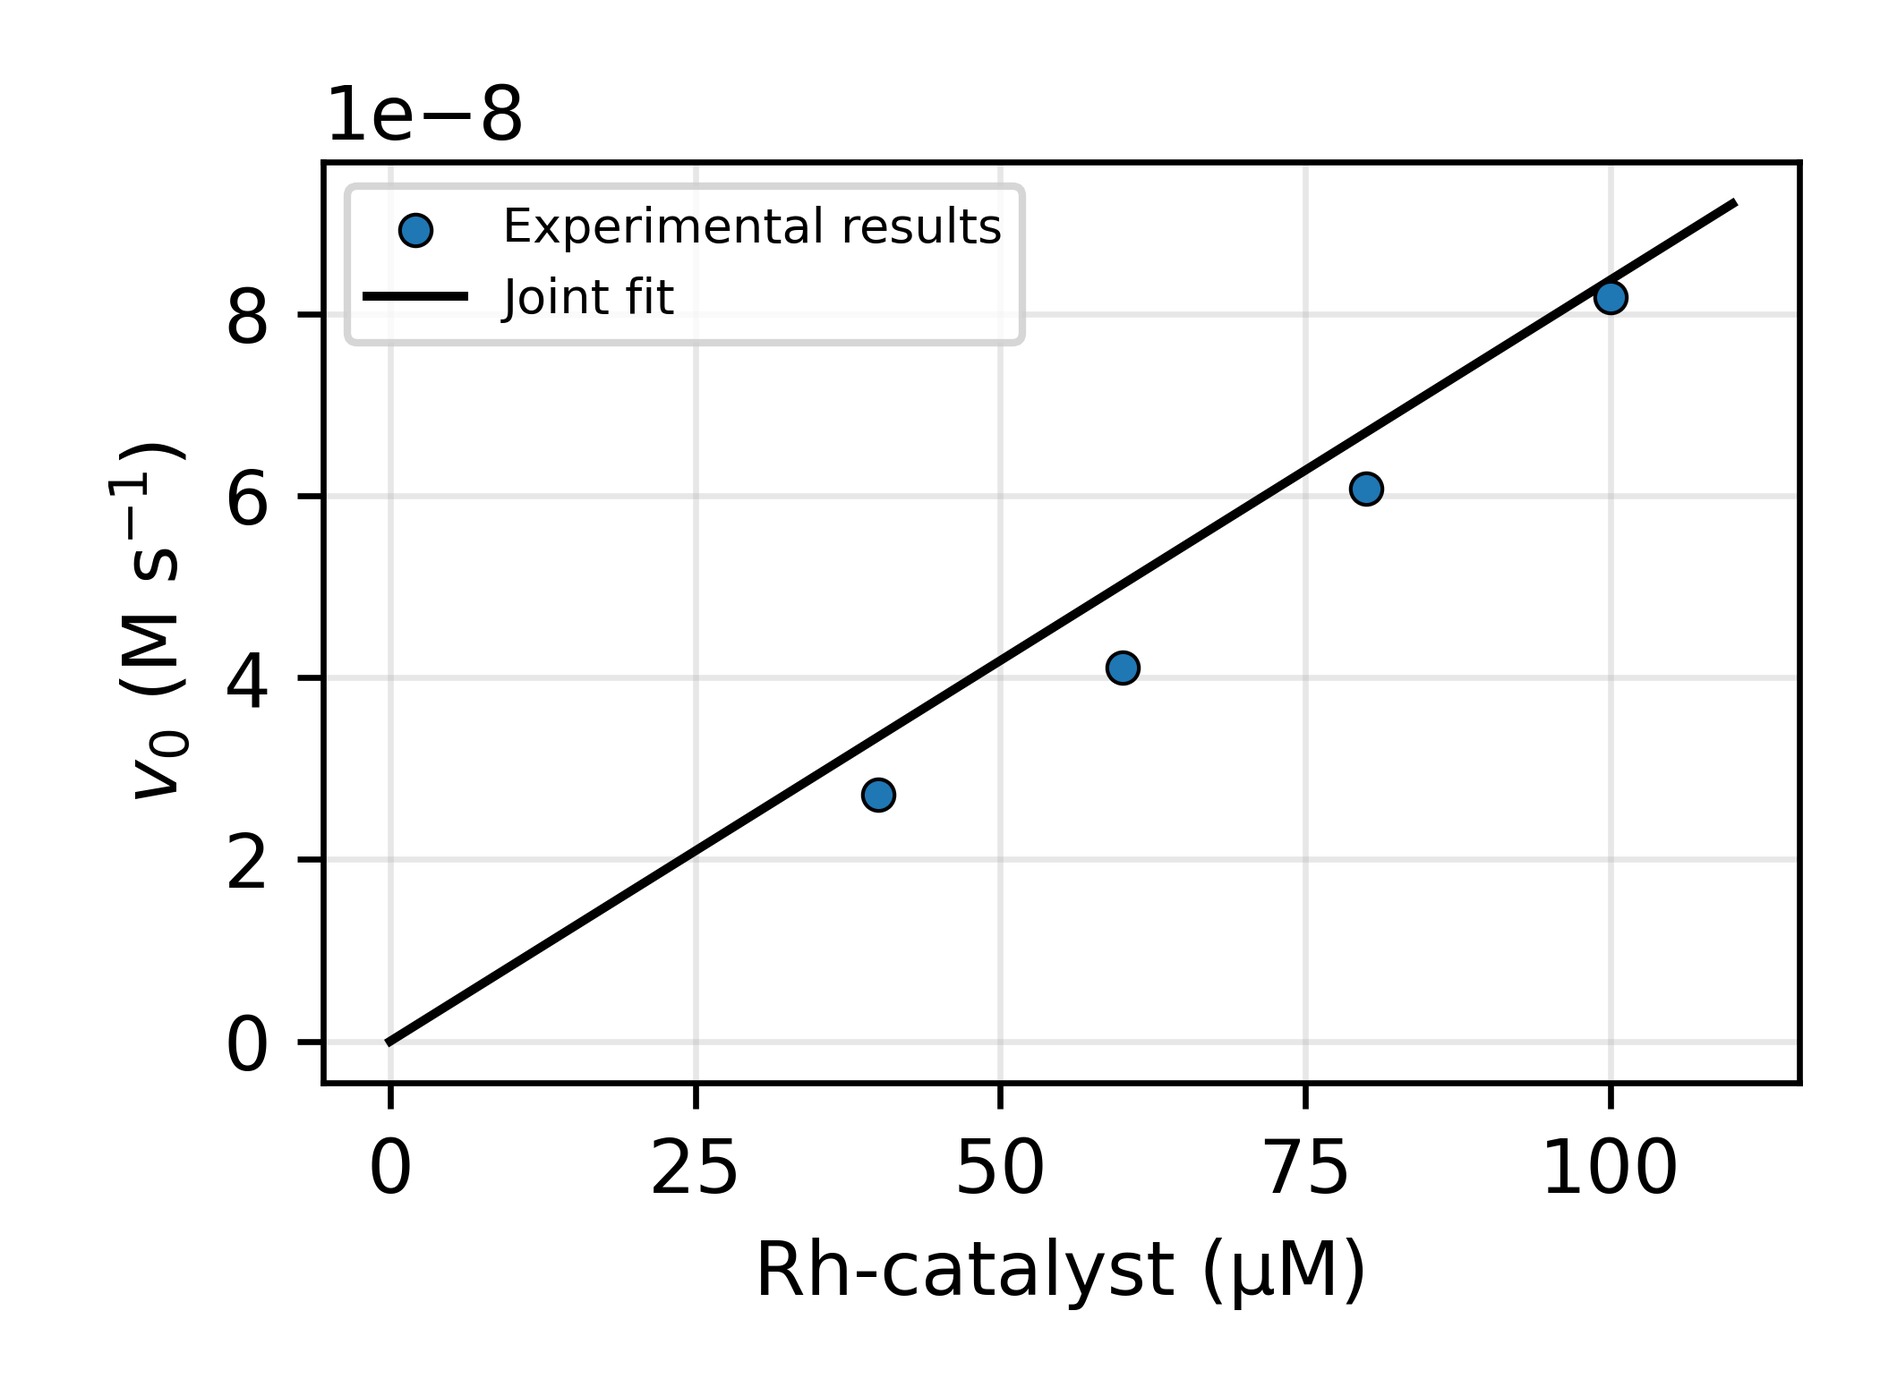
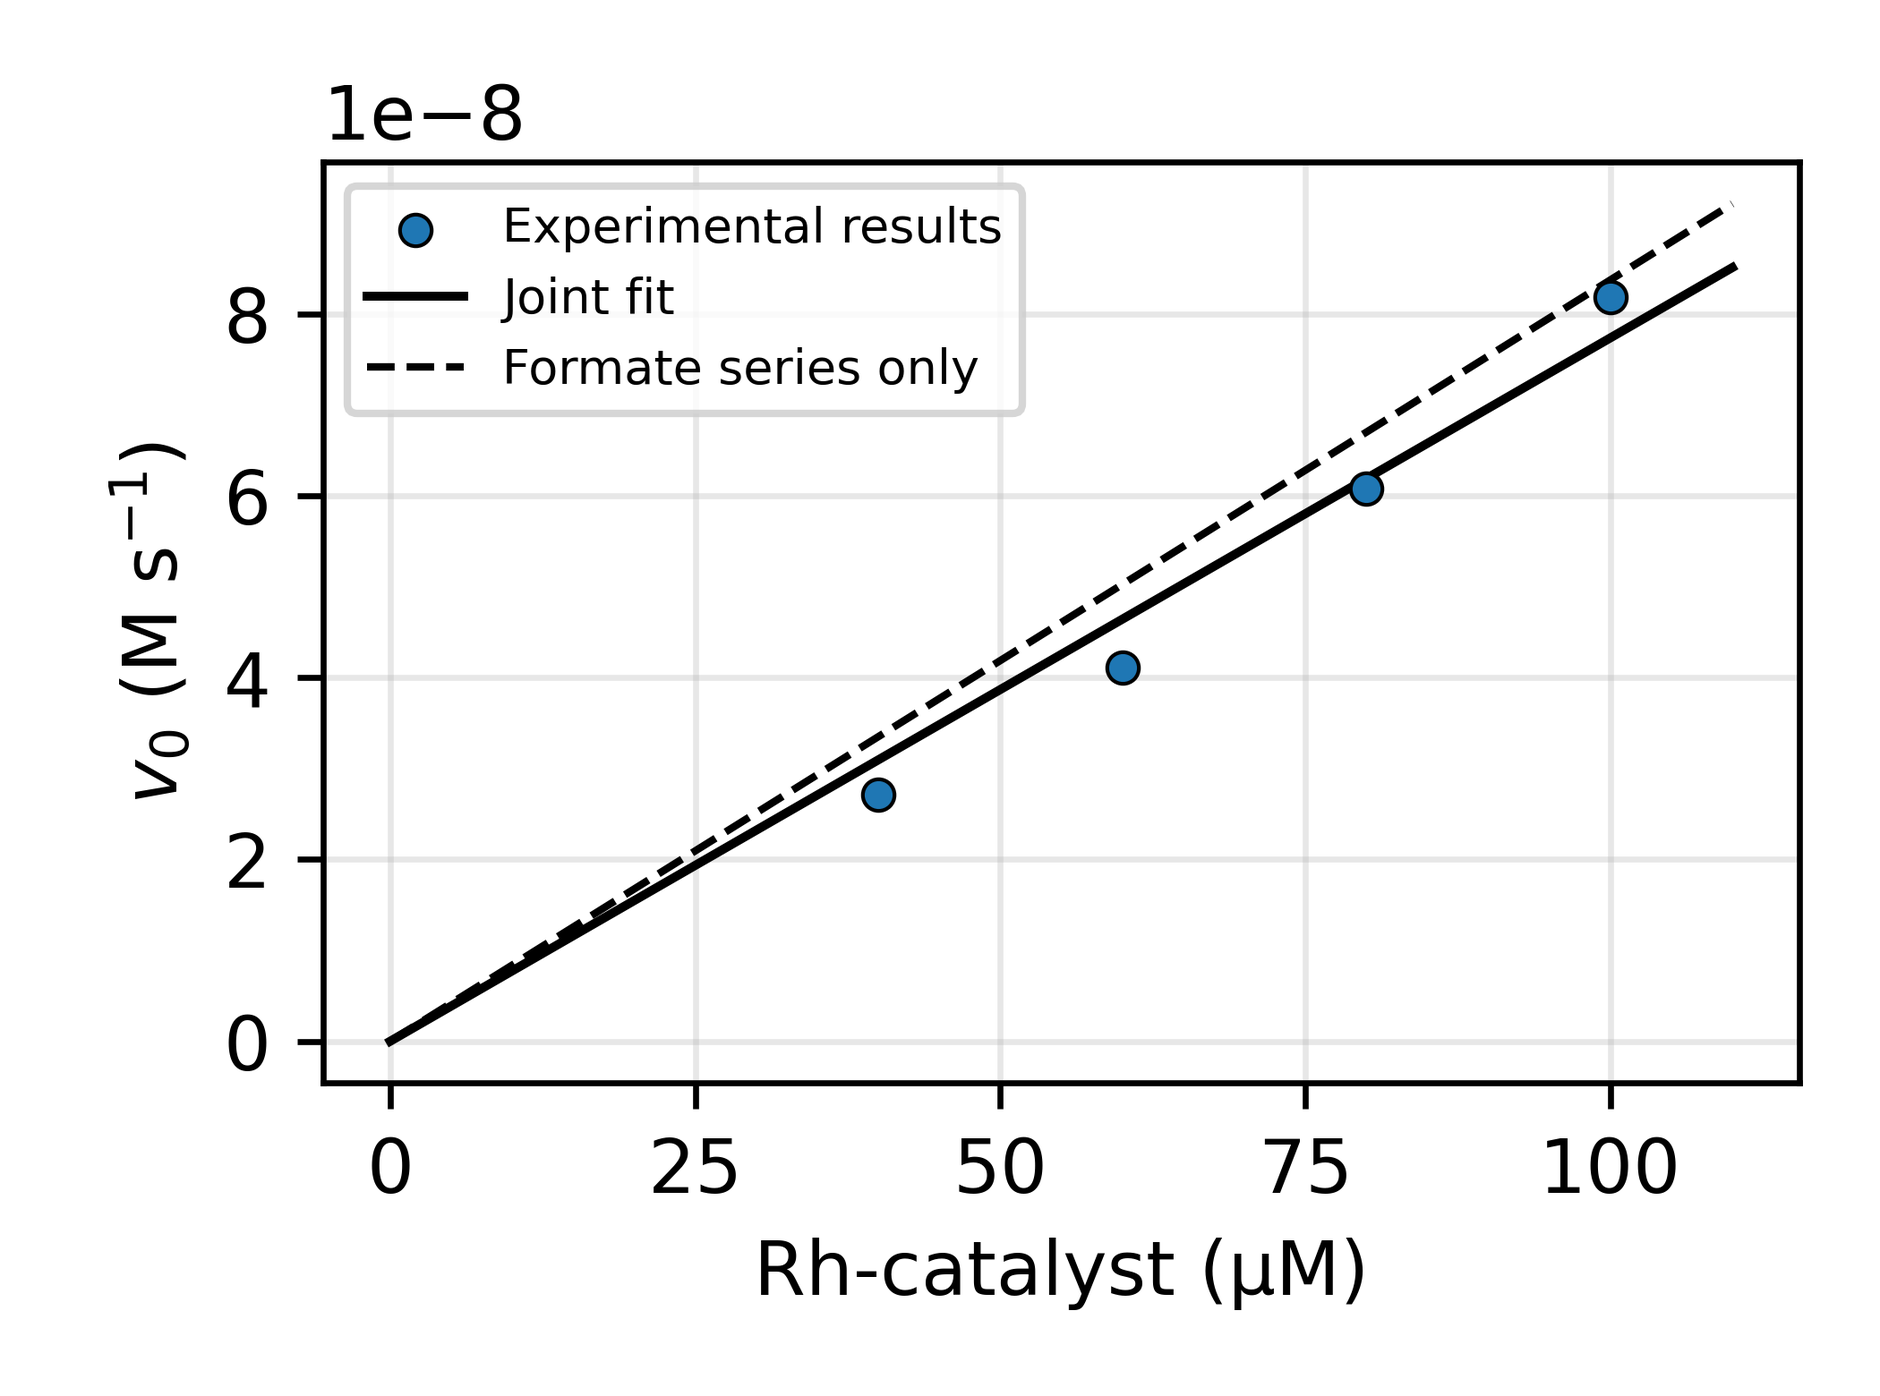
Fix the joint initial-rate fit, add both oxidation profile likelihoods
01_initial_rates.py
  The joint fit over both series was solved in M/s, where residuals are ~1e-8 and the
  optimiser stopped at its starting point. Refitted in uM/min: K1 goes 33.8 -> 49 +/- 30
  M^-1 and k2 2.08e-3 -> (1.6 +/- 0.5)e-3 s^-1, R2 0.963 -> 0.984. This is the
  first-order check on the catalyst; the saturation fit that supplies k2 = 2.08e-3 s^-1
  to kinetics.py is unchanged. Adds the formate-series overlay to the linearity figure.

03_oxidation_fit.py
  Profile likelihood for k6 as well as k8, with 95% intervals and the residual variance
  recorded in the JSON. The two profiles are now one figure, 03_profiles.png, replacing
  03_k8_profile.png.

02, 04, 08
  Figure names no longer carry paper SI numbering: 02_scaled_conversion.png for the
  1000x extrapolation, and fig_pinn_loss.png (not a paper figure) for the training loss.

README
  Result columns updated for the above, and the licence section restored after it was
  dropped in the edit.

diff --git a/03_oxidation_fit.py b/03_oxidation_fit.py
@@ -2,12 +2,15 @@
 
 With the reduction constants fixed (kinetics.FITTED), fits k6 (NAH + MB) and k8 (MB
 regeneration) to the five MB-variation time-courses (MB = 20, 12, 8, 9, 0 uM). The
-MB = 10 uM curve is NOT used: it is the held-out condition. A multi-start search avoids
-a local minimum; a profile-likelihood scan over k8 shows how k6 compensates (Figure S3).
+MB = 10 uM curve is NOT used: it is the held-out condition. A multi-start search guards
+against local minima. Profile likelihoods over k6 and over k8 give 95 % intervals: the
+sum of squares is scaled by the residual variance s2 = SSR_min / (N - 2), so that the
+chi-square(1) threshold 3.84 applies.
 
 Reproduces (paper, 'The Full Cycle'): in-sample R2 = 0.94; k4 = 3.8e2 M^-1 s^-1 (+/-20 %)
 and k5 = 2.8e-3 s^-1 (+/-11 %) in paper notation (k6, k8 here); the correlation of about
--0.89 between them; the MB conversion plot and Figure S3 (profile likelihood).
+-0.89 between them; the 95 % profile intervals k4 = 275-550 M^-1 s^-1 and
+k5 = 2.4-3.5e-3 s^-1; the MB conversion plot.
 """
 import json
 
@@ -72,17 +75,36 @@ print(f"k8 = {k8.value:.4f} min^-1       = {k8.value / 60:.3g} s^-1       (+/- {
 print(f"corr(k6, k8) = {corr:.3f}")
 print(f"(kinetics.FITTED carries k6 = {K.FITTED['k6']}, k8 = {K.FITTED['k8']})")
 
-# profile likelihood over k8 (Figure S3)
-rows = []
-for k8v in np.logspace(np.log10(0.02), np.log10(2.0), 25):
-    r = minimize(objective, params(k6.value, k8v, vary_k8=False), method="leastsq",
-                 nan_policy="omit", max_nfev=100000)
-    rows.append({"k8": k8v, "k6": r.params["k6"].value, "delta_chi2": r.chisqr - res.chisqr})
-prof = pd.DataFrame(rows)
-prof.to_csv(K.RESULTS / "03_k8_profile.csv", index=False)
+# profile likelihoods over k8 and k6, scaled by the residual variance
+s2 = res.chisqr / (res.ndata - res.nvarys)
+
+
+def profile(name, grid):
+    out = []
+    for v in grid:
+        p = params(k6.value, k8.value)
+        p[name].set(value=v, vary=False)
+        r = minimize(objective, p, method="leastsq", nan_policy="omit", max_nfev=100000)
+        other = "k6" if name == "k8" else "k8"
+        out.append({name: v, other: r.params[other].value, "lr_stat": (r.chisqr - res.chisqr) / s2})
+    return pd.DataFrame(out).sort_values(name).reset_index(drop=True)
+
+
+prof8 = profile("k8", np.unique(np.r_[np.logspace(np.log10(0.02), np.log10(2.0), 41),
+                                      np.linspace(0.12, 0.24, 49)]))
+prof6 = profile("k6", np.unique(np.r_[np.logspace(np.log10(0.005), np.log10(0.2), 41),
+                                      np.linspace(0.014, 0.036, 45)]))
+ci8 = prof8[prof8.lr_stat <= 3.84].k8.agg(["min", "max"]).values
+ci6 = prof6[prof6.lr_stat <= 3.84].k6.agg(["min", "max"]).values
+print(f"\n95 % profile intervals (grid-resolved):")
+print(f"  k6 = {ci6[0]:.4f}-{ci6[1]:.4f} uM^-1 min^-1 = {ci6[0]*1e6/60:.0f}-{ci6[1]*1e6/60:.0f} M^-1 s^-1")
+print(f"  k8 = {ci8[0]:.3f}-{ci8[1]:.3f} min^-1 = {ci8[0]/60:.2e}-{ci8[1]/60:.2e} s^-1")
+prof8.to_csv(K.RESULTS / "03_k8_profile.csv", index=False)
+prof6.to_csv(K.RESULTS / "03_k6_profile.csv", index=False)
 
 json.dump({"r2": R2, "k6": k6.value, "k6_stderr": k6.stderr, "k8": k8.value,
-           "k8_stderr": k8.stderr, "corr_k6_k8": corr},
+           "k8_stderr": k8.stderr, "corr_k6_k8": corr, "residual_variance": s2,
+           "k6_profile_ci95": list(ci6), "k8_profile_ci95": list(ci8)},
           open(K.RESULTS / "03_oxidation_fit.json", "w"), indent=1)
 
 # conversion plot, MB series
@@ -96,15 +118,14 @@ ax.set_xlabel("Time (min)"); ax.set_ylabel("Conversion ($P/S_0$)"); ax.grid(alph
 ax.legend(fontsize=6)
 fig.tight_layout(); fig.savefig(K.RESULTS / "03_conversion_mb.png", dpi=600); plt.close(fig)
 
-# Figure S3
-fig, (a1, a2) = plt.subplots(1, 2, figsize=(7.0, 2.6))
-a1.plot(prof.k8, prof.delta_chi2, "k-o", ms=3)
-a1.axhline(3.84, color="C3", ls="--", lw=0.9, label="95 % threshold")
-a1.axvline(k8.value, color="C0", ls=":", label="Best fit")
-a1.set_xscale("log"); a1.set_xlabel("$k_8$ (min$^{-1}$)"); a1.set_ylabel(r"$\Delta\chi^2$")
-a1.grid(alpha=0.3); a1.legend(fontsize=6)
-a2.plot(prof.k8, prof.k6, "k-o", ms=3)
-a2.axvline(k8.value, color="C0", ls=":", label="Best fit")
-a2.set_xscale("log"); a2.set_xlabel("$k_8$ (min$^{-1}$)"); a2.set_ylabel("$k_6$ (µM$^{-1}$ min$^{-1}$)")
-a2.grid(alpha=0.3); a2.legend(fontsize=6)
-fig.tight_layout(); fig.savefig(K.RESULTS / "03_k8_profile.png", dpi=600); plt.close(fig)
+# profile-likelihood figure (not in the paper; supports the quoted intervals)
+fig, axs = plt.subplots(1, 2, figsize=(7.0, 2.6))
+for ax, pr, name, best, lab in [(axs[0], prof6, "k6", k6.value, "$k_6$ (µM$^{-1}$ min$^{-1}$)"),
+                                (axs[1], prof8, "k8", k8.value, "$k_8$ (min$^{-1}$)")]:
+    ax.plot(pr[name], pr.lr_stat, "k-", lw=1)
+    ax.axhline(3.84, color="C3", ls="--", lw=0.9, label="95 % threshold")
+    ax.axvline(best, color="C0", ls=":", label="Best fit")
+    ax.set_xscale("log"); ax.set_yscale("symlog", linthresh=10)
+    ax.set_xlabel(lab); ax.set_ylabel(r"$\Delta\chi^2 / \hat\sigma^2$")
+    ax.set_ylim(bottom=-0.5); ax.grid(alpha=0.3); ax.legend(fontsize=6)
+fig.tight_layout(); fig.savefig(K.RESULTS / "03_profiles.png", dpi=600); plt.close(fig)

diff --git a/01_initial_rates.py b/01_initial_rates.py
@@ -4,7 +4,8 @@ Fits v = K1 k2 [F][Rh] / (1 + K1 [F]) to the initial rates of the fuel and Rh-ca
 series (data/initial_rates.csv), first on the fuel series alone and then jointly on both.
 
 Reproduces (paper, 'Fuel-driven Reduction'): k2 = 2.08e-3 s^-1, K1 = 33.8 M^-1,
-K_M = 1/K1 ~ 30 mM, and fig:F_fit / Figure S1.
+K_M = 1/K1 ~ 30 mM, R2 > 0.99 (formate series, fig:F_fit), and the joint fit
+K1 = 49 +/- 30 M^-1, k2 = (1.6 +/- 0.5)e-3 s^-1 used as a first-order check on the catalyst.
 The constants carried forward into the ODE model (kinetics.py) are k3 = 2.077e-3 s^-1 x 60
 and k1/k2 = K1 / 1e6 = 3.37e-5 uM^-1 (script notation).
 """
@@ -38,9 +39,11 @@ def rate_model(x, K_eq, k):
 (k_1, KM_1), cov1 = curve_fit(mm, F1, v1 / Cat1, p0=[2e-3, 0.03], bounds=([0, 0], [np.inf, np.inf]))
 k_1_err, KM_1_err = np.sqrt(np.diag(cov1))
 
-# joint fit, both series
+# joint fit, both series. Fitted in uM/min: in M/s the residuals (~1e-8) are so small that
+# the optimiser stops at its starting point.
 F_all, Cat_all, v_all = np.r_[F1, F2], np.r_[Cat1, Cat2], np.r_[v1, v2]
-(K_eq, k_j), cov2 = curve_fit(rate_model, (F_all, Cat_all), v_all, p0=[1 / KM_1, k_1],
+(K_eq, k_j), cov2 = curve_fit(lambda x, K_eq, k: rate_model(x, K_eq, k) / conv, (F_all, Cat_all),
+                              v_all / conv, p0=[1 / KM_1, k_1],
                               bounds=([0, 0], [np.inf, np.inf]), maxfev=20000)
 K_eq_err, k_j_err = np.sqrt(np.diag(cov2))
 r2_joint = K.r2(v_all, rate_model((F_all, Cat_all), K_eq, k_j))
@@ -57,7 +60,7 @@ json.dump({"fuel_only": {"k_s": k_1, "K1_M": 1 / KM_1, "KM_mM": KM_1 * 1e3, "r2"
            "joint": {"k_s": k_j, "K1_M": K_eq, "r2": r2_joint}},
           open(K.RESULTS / "01_initial_rates.json", "w"), indent=1)
 
-# figures: fig:F_fit and Figure S1
+# figures: fig:F_fit and the catalyst-linearity check
 Fr = np.linspace(0, 22e-3, 200)
 fig, ax = plt.subplots(figsize=(3.5, 2.6))
 ax.scatter(F1 * 1e3, v1 / Cat1, s=18, color="C0", edgecolors="black", linewidths=0.5, zorder=3,
@@ -73,6 +76,8 @@ fig, ax = plt.subplots(figsize=(3.5, 2.6))
 ax.scatter(Cat2 * 1e6, v2, s=18, color="C0", edgecolors="black", linewidths=0.5, zorder=3,
            label="Experimental results")
 ax.plot(Cr * 1e6, slope * Cr, "k-", lw=1.2, label="Joint fit")
+s1 = k_1 * F2[0] / (KM_1 + F2[0])
+ax.plot(Cr * 1e6, s1 * Cr, "k--", lw=1.0, label="Formate series only")
 ax.set_xlabel("Rh-catalyst (µM)"); ax.set_ylabel("$v_0$ (M s$^{-1}$)")
 ax.ticklabel_format(axis="y", style="sci", scilimits=(0, 0)); ax.grid(alpha=0.3); ax.legend(fontsize=6.5)
 fig.tight_layout(); fig.savefig(K.RESULTS / "01_catalyst_linearity.png", dpi=600); plt.close(fig)

diff --git a/08_figures.py b/08_figures.py
@@ -3,8 +3,8 @@
   results/fig_holdout_mb10.png   fig:result1   held-out MB = 10 uM: data, mechanistic model,
                                                PINN mean of 3 seeds and seed range
   results/fig_PINN_parity.png    fig:PINN_parity  test fold (46 rows), PINN seed 0
-  results/fig_S4_pinn_loss.png   Figure S4     training loss of seed 0, with the epoch at
-                                               which the learning rate is first halved
+  results/fig_pinn_loss.png      (not in the paper) training loss of seed 0, with the
+                                               epoch at which the learning rate is first halved
 
 R2 values in legends are rounded to two decimals, half up. 600 dpi.
 Usage:  python 08_figures.py [--epochs 1100]
@@ -84,7 +84,7 @@ fig.tight_layout(); fig.savefig(K.RESULTS / "fig_PINN_parity.png", dpi=DPI, bbox
 plt.close(fig)
 
 
-# ---- training loss, Figure S4 ----------------------------------------------------------
+# ---- training loss ----------------------------------------------------------
 def first_lr_halving(loss, patience):
     """Replays SciANN's default ReduceLROnPlateau (monitor = training loss, patience =
     epochs/10, factor 0.5): the first epoch at which the learning rate is halved."""
@@ -114,7 +114,7 @@ if e_lr:
 ax.set_xlabel("Epoch"); ax.set_ylabel("Training loss"); ax.set_xlim(0, len(L)); ax.grid(alpha=0.3)
 ax.legend(loc="upper right", bbox_to_anchor=(0.62, 1.0), frameon=True, framealpha=0.9,
           fontsize=5.5, handlelength=1.6, labelspacing=0.3, borderpad=0.4)
-fig.tight_layout(); fig.savefig(K.RESULTS / "fig_S4_pinn_loss.png", dpi=DPI, bbox_inches="tight")
+fig.tight_layout(); fig.savefig(K.RESULTS / "fig_pinn_loss.png", dpi=DPI, bbox_inches="tight")
 plt.close(fig)
 
 print(f"held-out: PINN (mean prediction) R2 = {r2_mp:.4f} -> {r2s(r2_mp)};  mechanistic {r2_mech:.4f} -> {r2s(r2_mech)}")

diff --git a/02_reduction_fit.py b/02_reduction_fit.py
@@ -6,7 +6,8 @@ k1/k2 fixed from 01 and k1 fixed at a representative value.
 
 Reproduces (paper, 'Fuel-driven Reduction'): in-sample R2 = 0.93; K3 = 1.53 +/- 0.10
 (Keq3 here); the k1 sensitivity scan showing R2 and Keq3 flat over six decades of k1;
-the conversion plots of the three series; and Figure S2 (1000x fuel and substrate).
+the conversion plots of the three series; and the 1000x fuel-and-substrate extrapolation
+discussed in the text (02_scaled_conversion.png).
 
 Usage:  python 02_reduction_fit.py [--no-scan]
 """
@@ -99,7 +100,7 @@ for name, ids, lab in [("fuel", K.FUEL_SERIES, "Fuel {:.1f} mM"),
     ax.legend(fontsize=6)
     fig.tight_layout(); fig.savefig(K.RESULTS / f"02_conversion_{name}.png", dpi=600); plt.close(fig)
 
-# --- Figure S2: 1000x fuel and substrate --------------------------------------------
+# --- 1000x fuel and substrate extrapolation --------------------------------------------
 y0b = [20e3, 40.0, 0, 0, 80.0, 0]
 y0h = [1000 * 20e3, 40.0, 0, 0, 1000 * 80.0, 0]
 tt = np.linspace(0, 180, 1200)

diff --git a/04_pinn_train.py b/04_pinn_train.py
@@ -6,7 +6,7 @@ for each seed. For every seed this saves, to results/pinn_e{EPOCHS}/seed{s}.npz:
     test_idx, pinn_test, r2_testfold       the 46 test rows
     hold_pts, r2_holdout, plateau60        the MB = 10 uM curve at its 14 measured times
     t_dense, hold_dense                    the same curve on a 0-60 min grid (241 points)
-    loss                                   training loss per epoch (Figure S4)
+    loss                                   training loss per epoch (08_figures.py)
 Nothing is computed from these here: 05_compare.py and 08_figures.py read them.
 
 Usage:  python 04_pinn_train.py [--seeds 0 1 2] [--epochs 1100]

diff --git a/README.md b/README.md
@@ -29,14 +29,14 @@ NAH is the reduced nicotinamide analogue. Units are µM and minutes, and fuel is
 |---|---|---|
 | `kinetics.py` | Shared module: data loaders, the reaction network, the fitted rate constants, the ODE predictor, and the re-fit of the free constants on a subset of rows. | Mechanism |
 | `pinn.py` | Shared module: the PINN, defined once. The reported configuration is `pinn.FINAL` (mass-balance bound on the plateau, 100 time + 1600 condition-space collocation points, 40-30-20-10, Taylor order 2) at 1100 epochs. | PINN section |
-| `01_initial_rates.py` | Saturation fit of the initial rates. | k₂ = 2.08×10⁻³ s⁻¹, K₁ = 33.8 M⁻¹, K_M ≈ 30 mM; fig:F_fit, Fig. S1 |
-| `02_reduction_fit.py` | Global fit of the reduction half-cycle to the 12 reduction curves, plus the k₁ sensitivity scan. | R² = 0.93, K₃ = 1.53 ± 0.10; conversion plots; Fig. S2 |
-| `03_oxidation_fit.py` | Fit of k₄ and k₅ (paper notation) to the five MB curves, excluding MB = 10 µM, plus the profile likelihood. | R² = 0.94, 3.8×10² M⁻¹ s⁻¹ (±20 %), 2.8×10⁻³ s⁻¹ (±11 %); Fig. S3 |
+| `01_initial_rates.py` | Saturation fit of the initial rates. | k₂ = 2.08×10⁻³ s⁻¹, K₁ = 33.8 M⁻¹, K_M ≈ 30 mM, R² > 0.99; joint fit K₁ = 49 ± 30 M⁻¹, k₂ = (1.6 ± 0.5)×10⁻³ s⁻¹ (first-order check on the catalyst); fig:F_fit |
+| `02_reduction_fit.py` | Global fit of the reduction half-cycle to the 12 reduction curves, plus the k₁ sensitivity scan. | R² = 0.93, K₃ = 1.53 ± 0.10; conversion plots; the 1000× fuel-and-substrate extrapolation |
+| `03_oxidation_fit.py` | Fit of k₄ and k₅ (paper notation) to the five MB curves, excluding MB = 10 µM, plus profile likelihoods for both. | R² = 0.94, 3.8×10² M⁻¹ s⁻¹ (±20 %), 2.8×10⁻³ s⁻¹ (±11 %); 95 % profile intervals 275–550 M⁻¹ s⁻¹ and 2.4–3.5×10⁻³ s⁻¹ |
 | `04_pinn_train.py` | Trains the PINN on the outer split (181/46 rows) for seeds 0–2 and saves test-fold and held-out predictions and the loss history. | Input to 05 and 08 |
 | `05_compare.py` | PINN vs mechanistic model on the test fold and the held-out curve, the refit control, and the epoch-sensitivity table. | 0.96 vs 0.90; refit 0.90; 0.79 vs 0.26; 23.8 / 28.6 / 18.0 µM; Appendix plateau spread 0.46 µM |
 | `06_split50.py` | 50 random 80/20 splits. For each split: one PINN (seed = split index) and the mechanistic model re-fitted on that split's training rows. Paired Wilcoxon test. | 0.98 vs 0.93, PINN higher on 50/50 |
 | `07_epoch_selection.py` | Inner-validation sweep on the training rows only, with the pre-declared 1-sd rule. `--config M0` is the sweep that selected 1100. `--config M2` is the repeat on the final configuration. | Appendix |
-| `08_figures.py` | The PINN figures, built from the `04` outputs. | fig:result1, fig:PINN_parity, Fig. S4 |
+| `08_figures.py` | The PINN figures, built from the `04` outputs. | fig:result1, fig:PINN_parity; training-loss figure (not in the paper) |
 
 Notation: the scripts number the rate constants by elementary step, and the paper uses its own names. `kinetics.py` has the mapping. For example, the script's k6 and k8 are the paper's k₄ and k₅, and `Keq3` is K₃.
 
@@ -49,11 +49,13 @@ PINN training is slow: roughly 10–20 min per fit on a laptop CPU, and several 
 - `split50.csv` holds the per-split R² of both models.
 - `epoch_sweep_M0.csv`, `epoch_sweep_M2.csv` are the two validation sweeps.
 
-With these files, `python 05_compare.py`, `python 06_split50.py --ode-only` and `python 08_figures.py` reproduce the paper's numbers and figures without any training. The figures are pixel-identical to those in the paper. Re-running 04, 06 or 07 overwrites the corresponding files.
+With these files, `python 05_compare.py`, `python 06_split50.py --ode-only` and `python 08_figures.py` reproduce the paper's numbers and figures without any training. The two PINN figures are pixel-identical to those in the paper. Re-running 04, 06 or 07 overwrites the corresponding files.
 
 ## Notes on reproducibility
 
 - **PINN results depend slightly on the TensorFlow thread count.** Seeds are fixed, but the thread count changes the floating-point summation order. This moves R² by about 0.001–0.005 and the 60-min plateau by a few hundredths of a µM. Set `PINN_THREADS=n` to fix the thread count.
+- **Initial-rate joint fit.** It is fitted in µM min⁻¹. In M s⁻¹ the residuals (~10⁻⁸) are so small that the optimiser stops at its starting point, which in earlier versions of this analysis made the joint fit look identical to the formate-only fit.
+- **Profile likelihoods are scaled by the residual variance.** The sums of squares are unweighted (µM²), so they are divided by σ̂² = SSR_min/(N − 2) before the χ²(1) threshold of 3.84 is applied.
 - **Some ODE re-fits differ in the fourth decimal.** k4 (script notation) is not identifiable, so the least-squares re-fit can end at different k4 values with the same fit quality. As a result, a few split-wise ODE R² values can differ in the fourth decimal between library versions (e.g. split 1: 0.9240 stored, 0.9243 re-computed). For the same reason, the standard error of K₃ from `02` ranges from 0.097 to 0.109 depending on the lmfit/scipy version. K₃ itself and R² do not change.
 - **The original 1100-epoch selection used an earlier module.** The `07 --config M0` sweep that selected 1100 epochs was run with an earlier version of `pinn.py` that had the same model and preprocessing. A re-run should reproduce the selection, though not every digit of the stored curve.
 - **The M2 repeat sweep rises slowly and does not plateau.** Mean inner-validation R² goes from 0.985 at 800 epochs to 0.992 at 3000 (0.987 at 1100). Applied to this sweep, the 1-sd rule would select 1700. The held-out plateau at 800 / 1100 / 1700 epochs differs by 0.46 µM (05).
